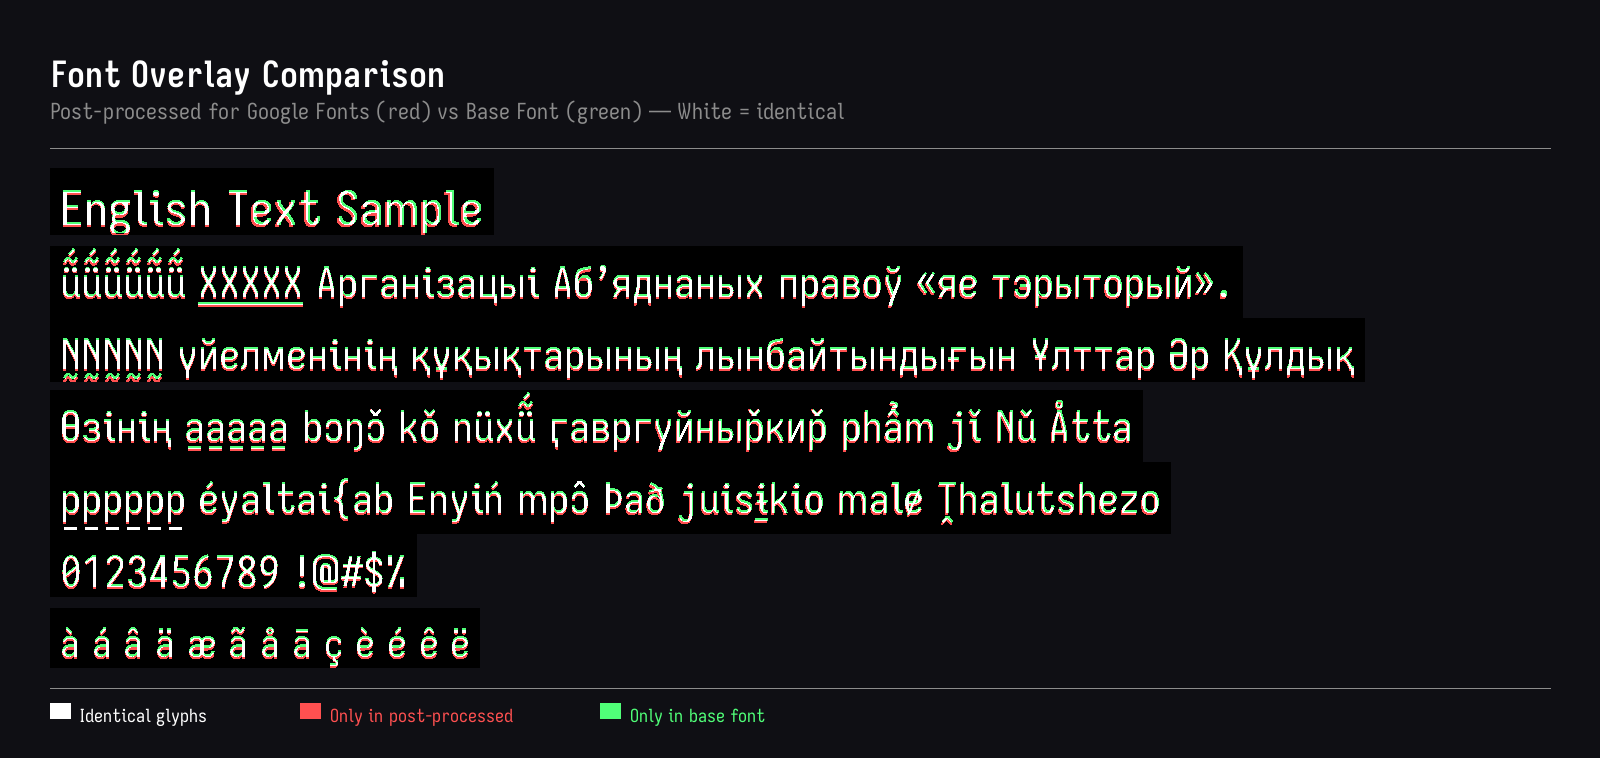
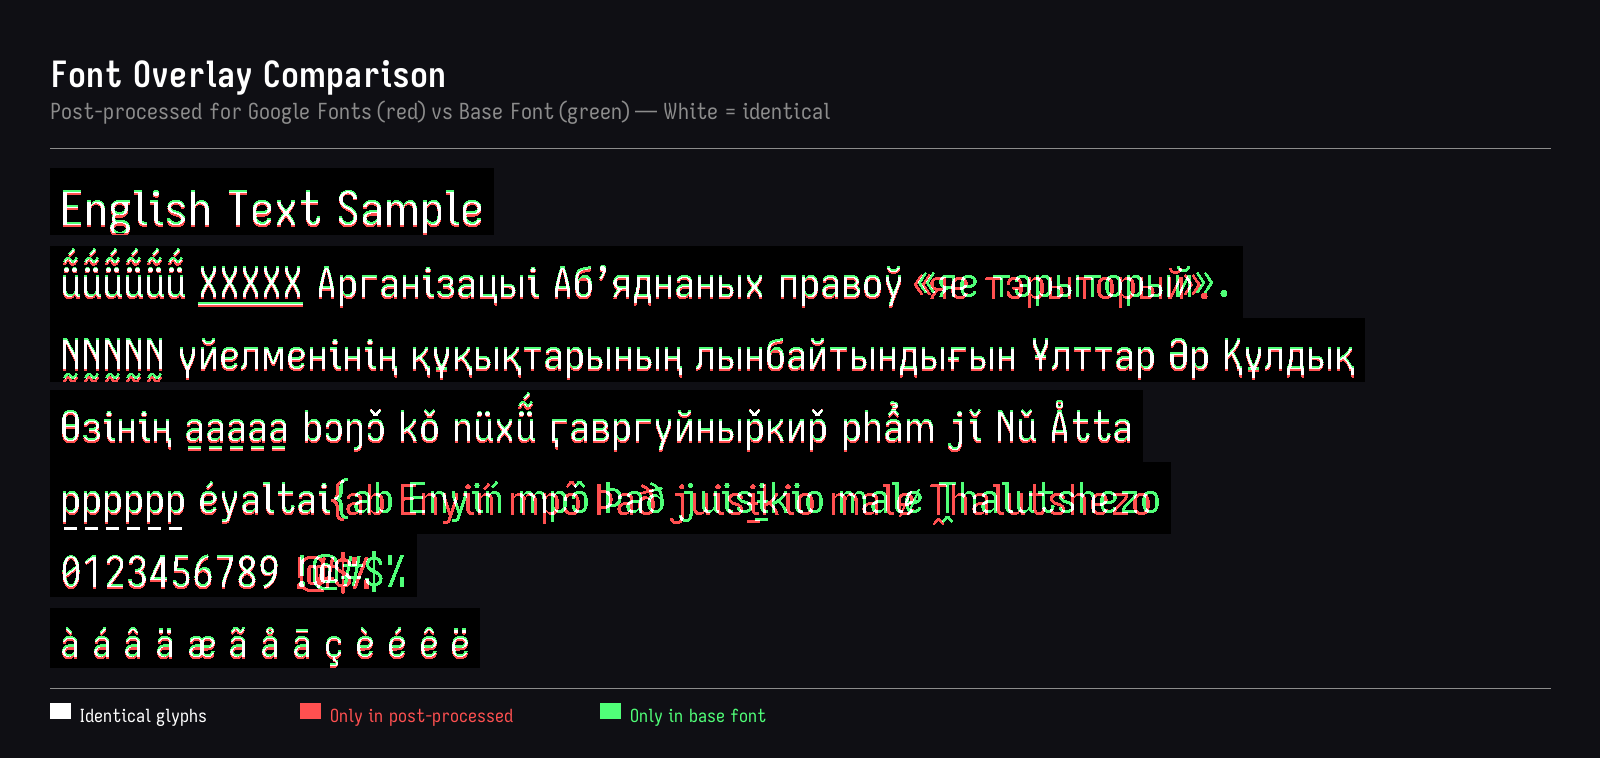
Refactor punctuation spacing and kerning with dynamic glyph identification
- Identify punctuation via Unicode categories instead of manual lists.
- Adjust advance widths for ~200 punctuation glyphs in quasi-proportional mode.
- Add enhanced kerning classes and pairs for punctuation.
- Fix PANOSE bProportion metadata to correctly reflect font spacing.

diff --git a/scripts/fix_fonts.py b/scripts/fix_fonts.py
@@ -808,12 +808,16 @@ def normalize_simple_glyphs(font: TTFont) -> bool:
 
 
 def fix_panose_monospace(font: TTFont) -> bool:
-    """Ensure PANOSE proportion is set to monospaced."""
-    if "OS/2" not in font:
+    """Ensure PANOSE proportion is set correctly based on font spacing."""
+    if "OS/2" not in font or "post" not in font:
         return False
+    
     panose = font["OS/2"].panose
-    if panose.bProportion != 9:
-        panose.bProportion = 9
+    is_mono = font["post"].isFixedPitch
+    target = 9 if is_mono else 0  # 9=Monospaced, 0=Any
+    
+    if panose.bProportion != target:
+        panose.bProportion = target
         return True
     return False
 
@@ -904,6 +908,92 @@ def fix_gdef_mark_classes(font: TTFont) -> bool:
     return updated
 
 
+def names_for_categories(font: TTFont, categories: set) -> List[str]:
+    """Get glyph names matching specific Unicode categories."""
+    cmap = font.getBestCmap()
+    glyph_names = []
+    for cp, name in cmap.items():
+        if unicodedata.category(chr(cp)) in categories:
+            glyph_names.append(name)
+    return glyph_names
+
+
+def fix_punctuation_spacing(font: TTFont) -> bool:
+    """Reduce excessive space around punctuation in quasi-proportional fonts."""
+    if "post" in font and font["post"].isFixedPitch:
+        return False
+
+    if "hmtx" not in font or "glyf" not in font:
+        return False
+
+    hmtx = font["hmtx"]
+    glyf = font["glyf"]
+    changed = False
+
+    # Target widths for quasi-proportional (UPEM 1000)
+    small_punct_target = 300
+    large_punct_target = 450
+
+    # Po: Other Punctuation (.,:;!?)
+    # Pe: Close Punctuation (])
+    # Ps: Open Punctuation ([)
+    # Pi: Initial Punctuation («)
+    # Pf: Final Punctuation (»)
+    # Pd: Dash Punctuation (-)
+    
+    small_punct_glyphs = set(names_for_categories(font, {"Po", "Pe", "Ps", "Pi", "Pf", "Pd"}))
+    
+    # Large punctuation override
+    large_punct_chars = "?¿\u2026"  # ? ¿ ellipsis
+    cmap = font.getBestCmap()
+    large_punct_glyphs = {cmap[ord(c)] for c in large_punct_chars if ord(c) in cmap}
+    
+    # Exceptions (dashes usually look better with more width)
+    exclude_from_fix = set(names_for_categories(font, {"Pd"}))
+
+    for glyph_name in sorted(small_punct_glyphs):
+        if glyph_name in exclude_from_fix:
+            continue
+        if glyph_name not in hmtx.metrics:
+            continue
+
+        glyph = glyf.get(glyph_name)
+        if not glyph:
+            continue
+
+        target_width = large_punct_target if glyph_name in large_punct_glyphs else small_punct_target
+        
+        # Ellipsis special case
+        if any(c in glyph_name for c in ["ellipsis", "uni2026"]):
+            target_width = 800
+
+        # Recalculate bounds
+        if glyph.isComposite():
+            glyph.recalcBounds(glyf)
+
+        if not hasattr(glyph, "xMin") or glyph.xMin is None:
+            continue
+
+        ink_width = glyph.xMax - glyph.xMin
+        new_lsb = (target_width - ink_width) // 2
+        
+        dx = new_lsb - glyph.xMin
+        if dx != 0:
+            if glyph.isComposite():
+                for component in glyph.components:
+                    component.x += dx
+            elif hasattr(glyph, "coordinates"):
+                glyph.coordinates.translate((dx, 0))
+        
+        hmtx[glyph_name] = (target_width, new_lsb)
+        changed = True
+
+    if changed:
+        print(f"  ✓ Adjusted spacing for {len(small_punct_glyphs)} punctuation glyphs")
+
+    return changed
+
+
 def add_kerning_feature(font: TTFont) -> bool:
     """Add GPOS kern feature for quasi-proportional fonts."""
     # Only apply to quasi-proportional fonts
@@ -962,9 +1052,10 @@ def add_kerning_feature(font: TTFont) -> bool:
         "@L_P": expand_with_accents(names_for_chars("PÞṔṖƤРрҎҏΡρ")),
         "@L_r": expand_with_accents(names_for_chars("rŕřŗṙṛṝṟɍɾгґ")),
         "@L_f": expand_with_accents(names_for_chars("fḟƒﬁﬂ")),
-        "@L_L": expand_with_accents(names_for_chars("LĹĻĽĿŁḶḸḺḼȽГгҐґ")),
-        "@L_quote": names_for_chars("\"'\u2019\u00bb\u203a"),
-        "@L_paren": names_for_chars(")]}"),
+        "@L_L": expand_with_accents(names_for_chars("LĹĻĽĿŁḶḸḺḺȽГгҐґ")),
+        "@L_quote": names_for_categories(font, {"Pi", "Pf", "Po"}), # Catch quotes dynamically
+        "@L_paren": names_for_categories(font, {"Pe"}),
+        "@L_punct": names_for_categories(font, {"Po"}),
         "@L_o": expand_with_accents(names_for_chars("oòóôõöōŏőơǒọỏốồổỗộớờởỡợøœоөοό")),
         "@L_a": expand_with_accents(names_for_chars("aàáâãäåāăąǎạảấầẩẫậắằẳẵặæаα")),
         "@L_e": expand_with_accents(names_for_chars("eèéêëēĕėęěẹẻẽếềểễệеёєεέ")),
@@ -987,10 +1078,10 @@ def add_kerning_feature(font: TTFont) -> bool:
         "@R_V": expand_with_accents(names_for_chars("VṼṾѴ")),
         "@R_T": expand_with_accents(names_for_chars("TŦȚŢƬƮȾṪṬṮṰТЋЂΤτ")),
         "@R_Y": expand_with_accents(names_for_chars("YỲỴỶỸŶŸÝƳƴУЎҮΥΎ")),
-        "@R_punct": names_for_chars(".,;:!?"),
+        "@R_punct": names_for_categories(font, {"Po"}),
         "@R_hyphen": names_for_chars("-–—"),
-        "@R_quote": names_for_chars("\"'\u201c\u2018\u00ab\u2039"),
-        "@R_paren": names_for_chars("([{"),
+        "@R_quote": names_for_categories(font, {"Pi", "Pf", "Po"}),
+        "@R_paren": names_for_categories(font, {"Ps"}),
     }
 
     # Filter to only include glyphs that exist in the font
@@ -1039,6 +1130,14 @@ def add_kerning_feature(font: TTFont) -> bool:
         ("@L_o", "@R_T"): -50, ("@L_o", "@R_V"): -35, ("@L_o", "@R_Y"): -40,
         ("@L_a", "@R_T"): -45, ("@L_a", "@R_V"): -30, ("@L_a", "@R_Y"): -35,
         ("@L_e", "@R_T"): -45, ("@L_e", "@R_V"): -30, ("@L_e", "@R_Y"): -35,
+        # Punctuation kerning
+        ("@L_punct", "@R_quote"): -40, ("@L_punct", "@R_punct"): -30,
+        ("@L_punct", "@R_o"): -20, ("@L_punct", "@R_a"): -20, ("@L_punct", "@R_e"): -20,
+        ("@L_punct", "@R_A"): -30, ("@L_punct", "@R_V"): -35, ("@L_punct", "@R_T"): -35,
+        ("@L_punct", "@R_Y"): -35,
+        ("@L_quote", "@R_punct"): -40,
+        ("@L_V", "@R_punct"): -60, ("@L_W", "@R_punct"): -50, ("@L_Y", "@R_punct"): -70,
+        ("@L_T", "@R_punct"): -70, ("@L_A", "@R_punct"): -30,
     }
 
     gpos_table = font["GPOS"].table
@@ -1168,6 +1267,7 @@ def post_process_font(font_path: Path, output_path: Optional[Path] = None) -> bo
             (add_fallback_mark_anchors, "fallback_mark_anchors"),
             (add_dotted_circle_fallback, "dotted_circle_fallback"),
             (fix_gdef_mark_classes, "gdef_mark_classes"),
+            (fix_punctuation_spacing, "punctuation_spacing"),
             (add_kerning_feature, "kerning"),
         ]
 
